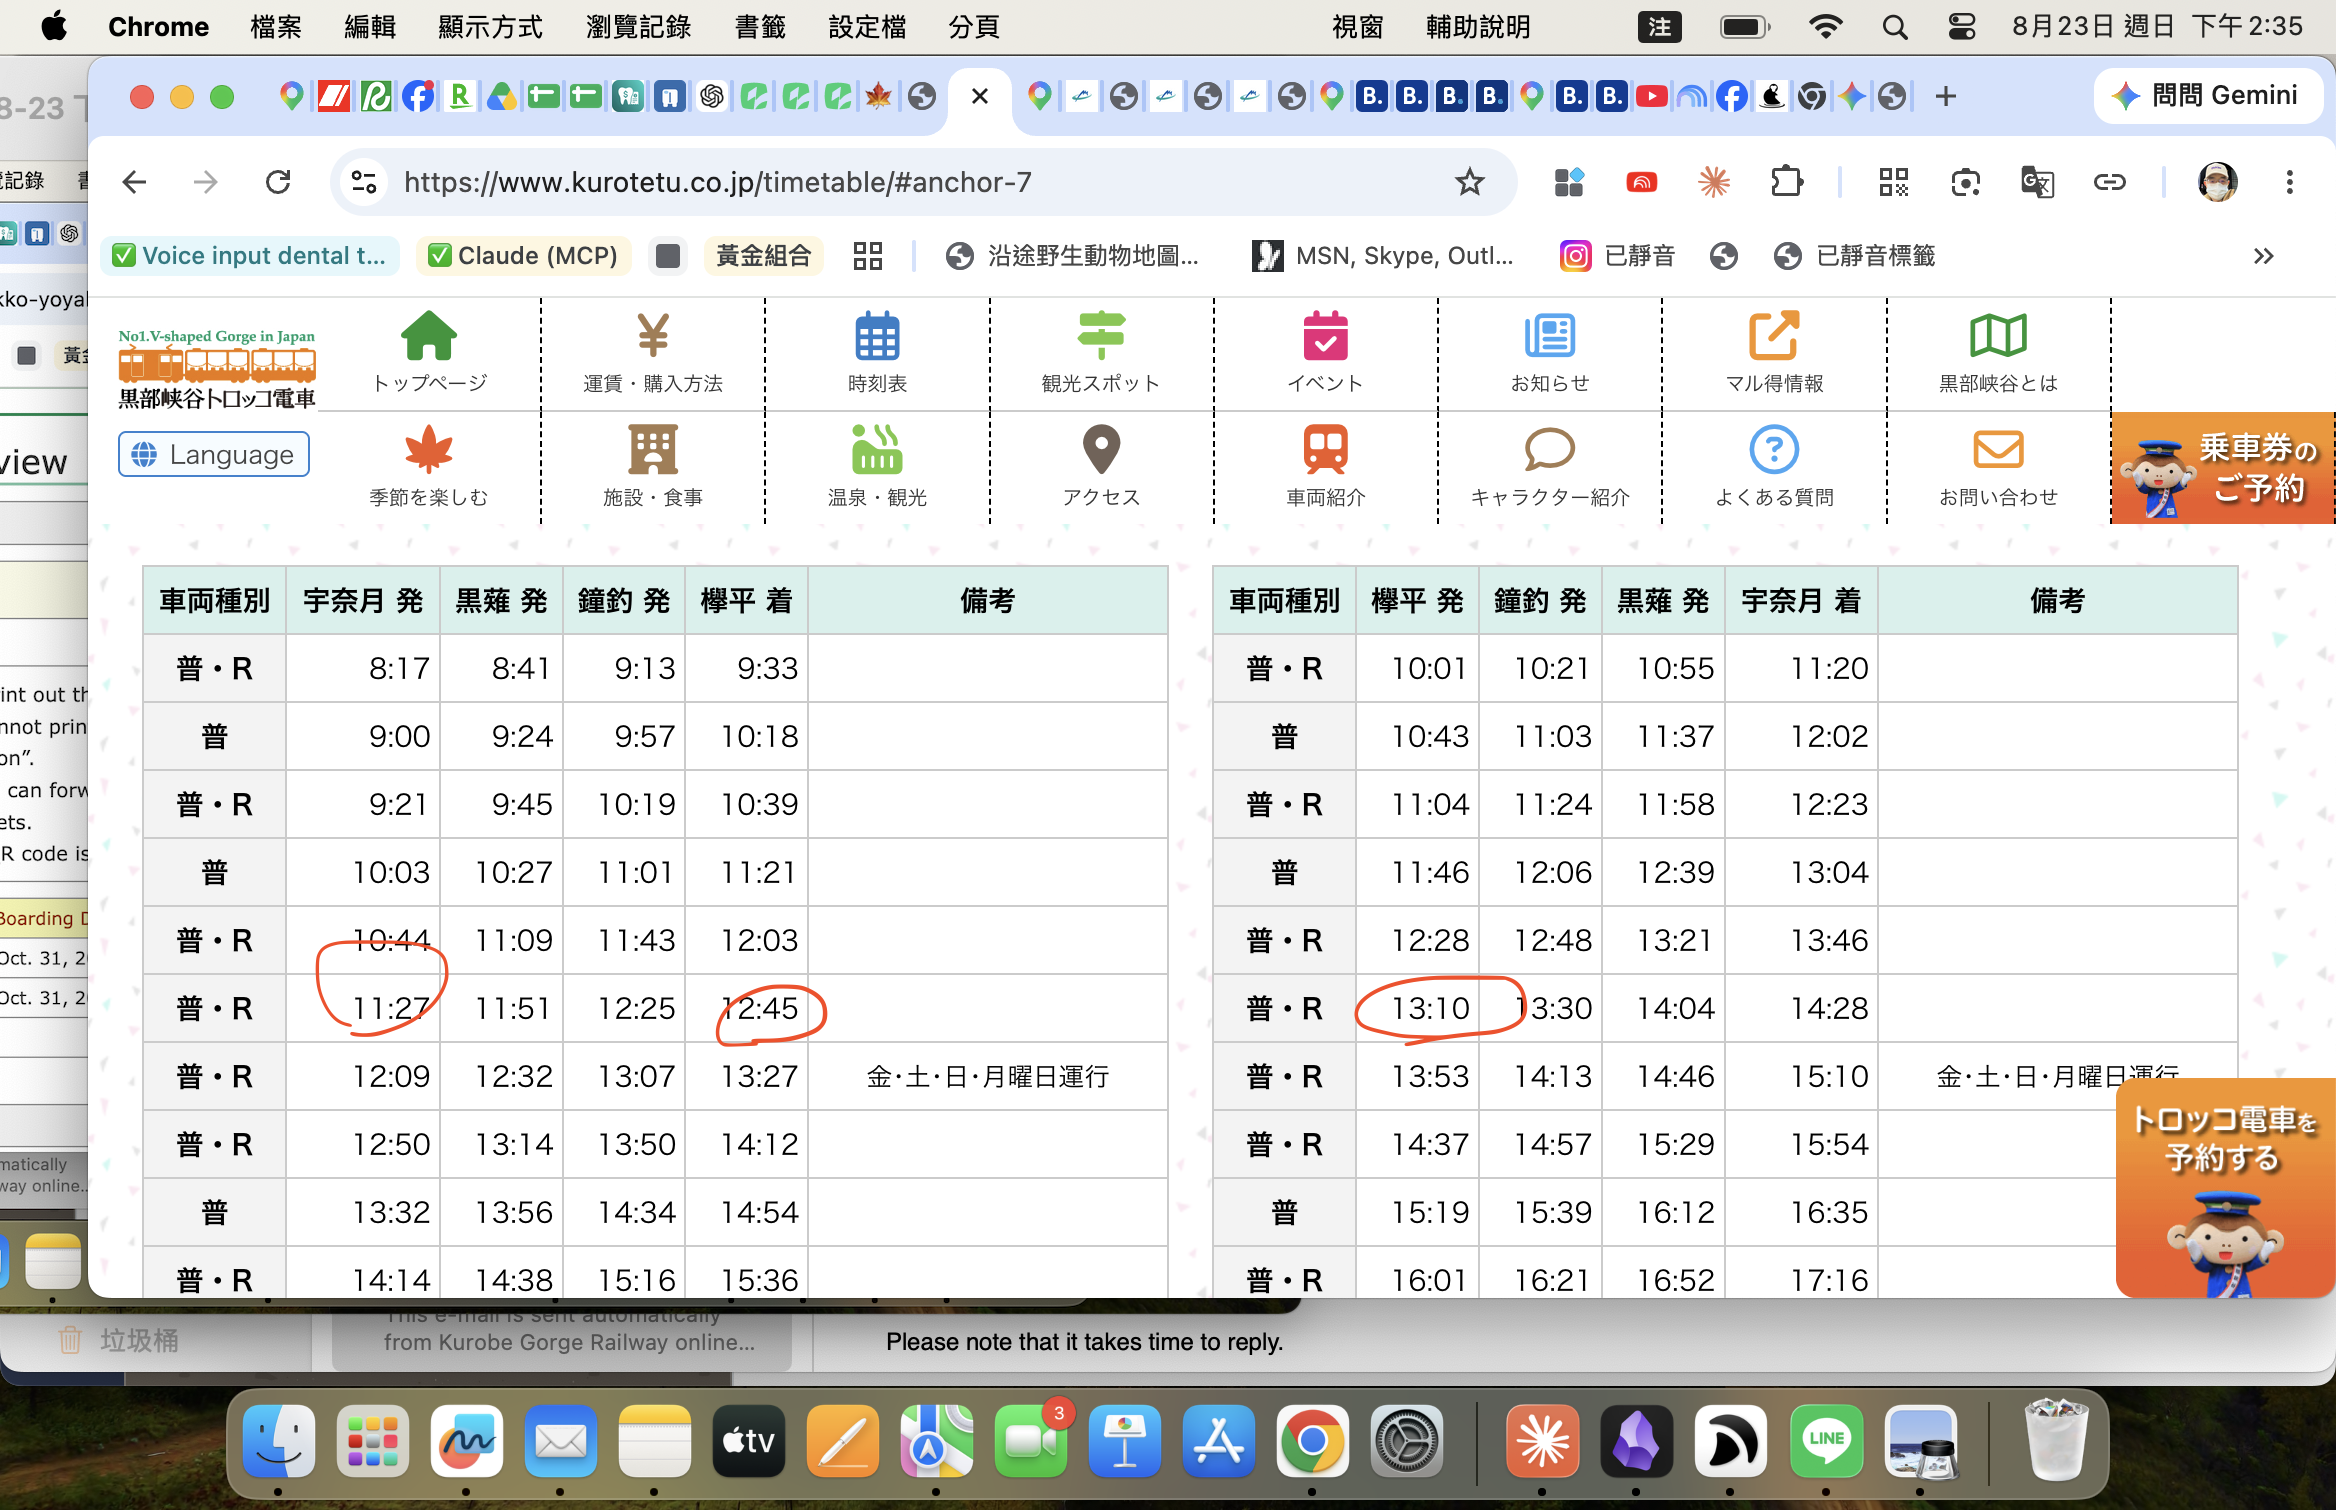
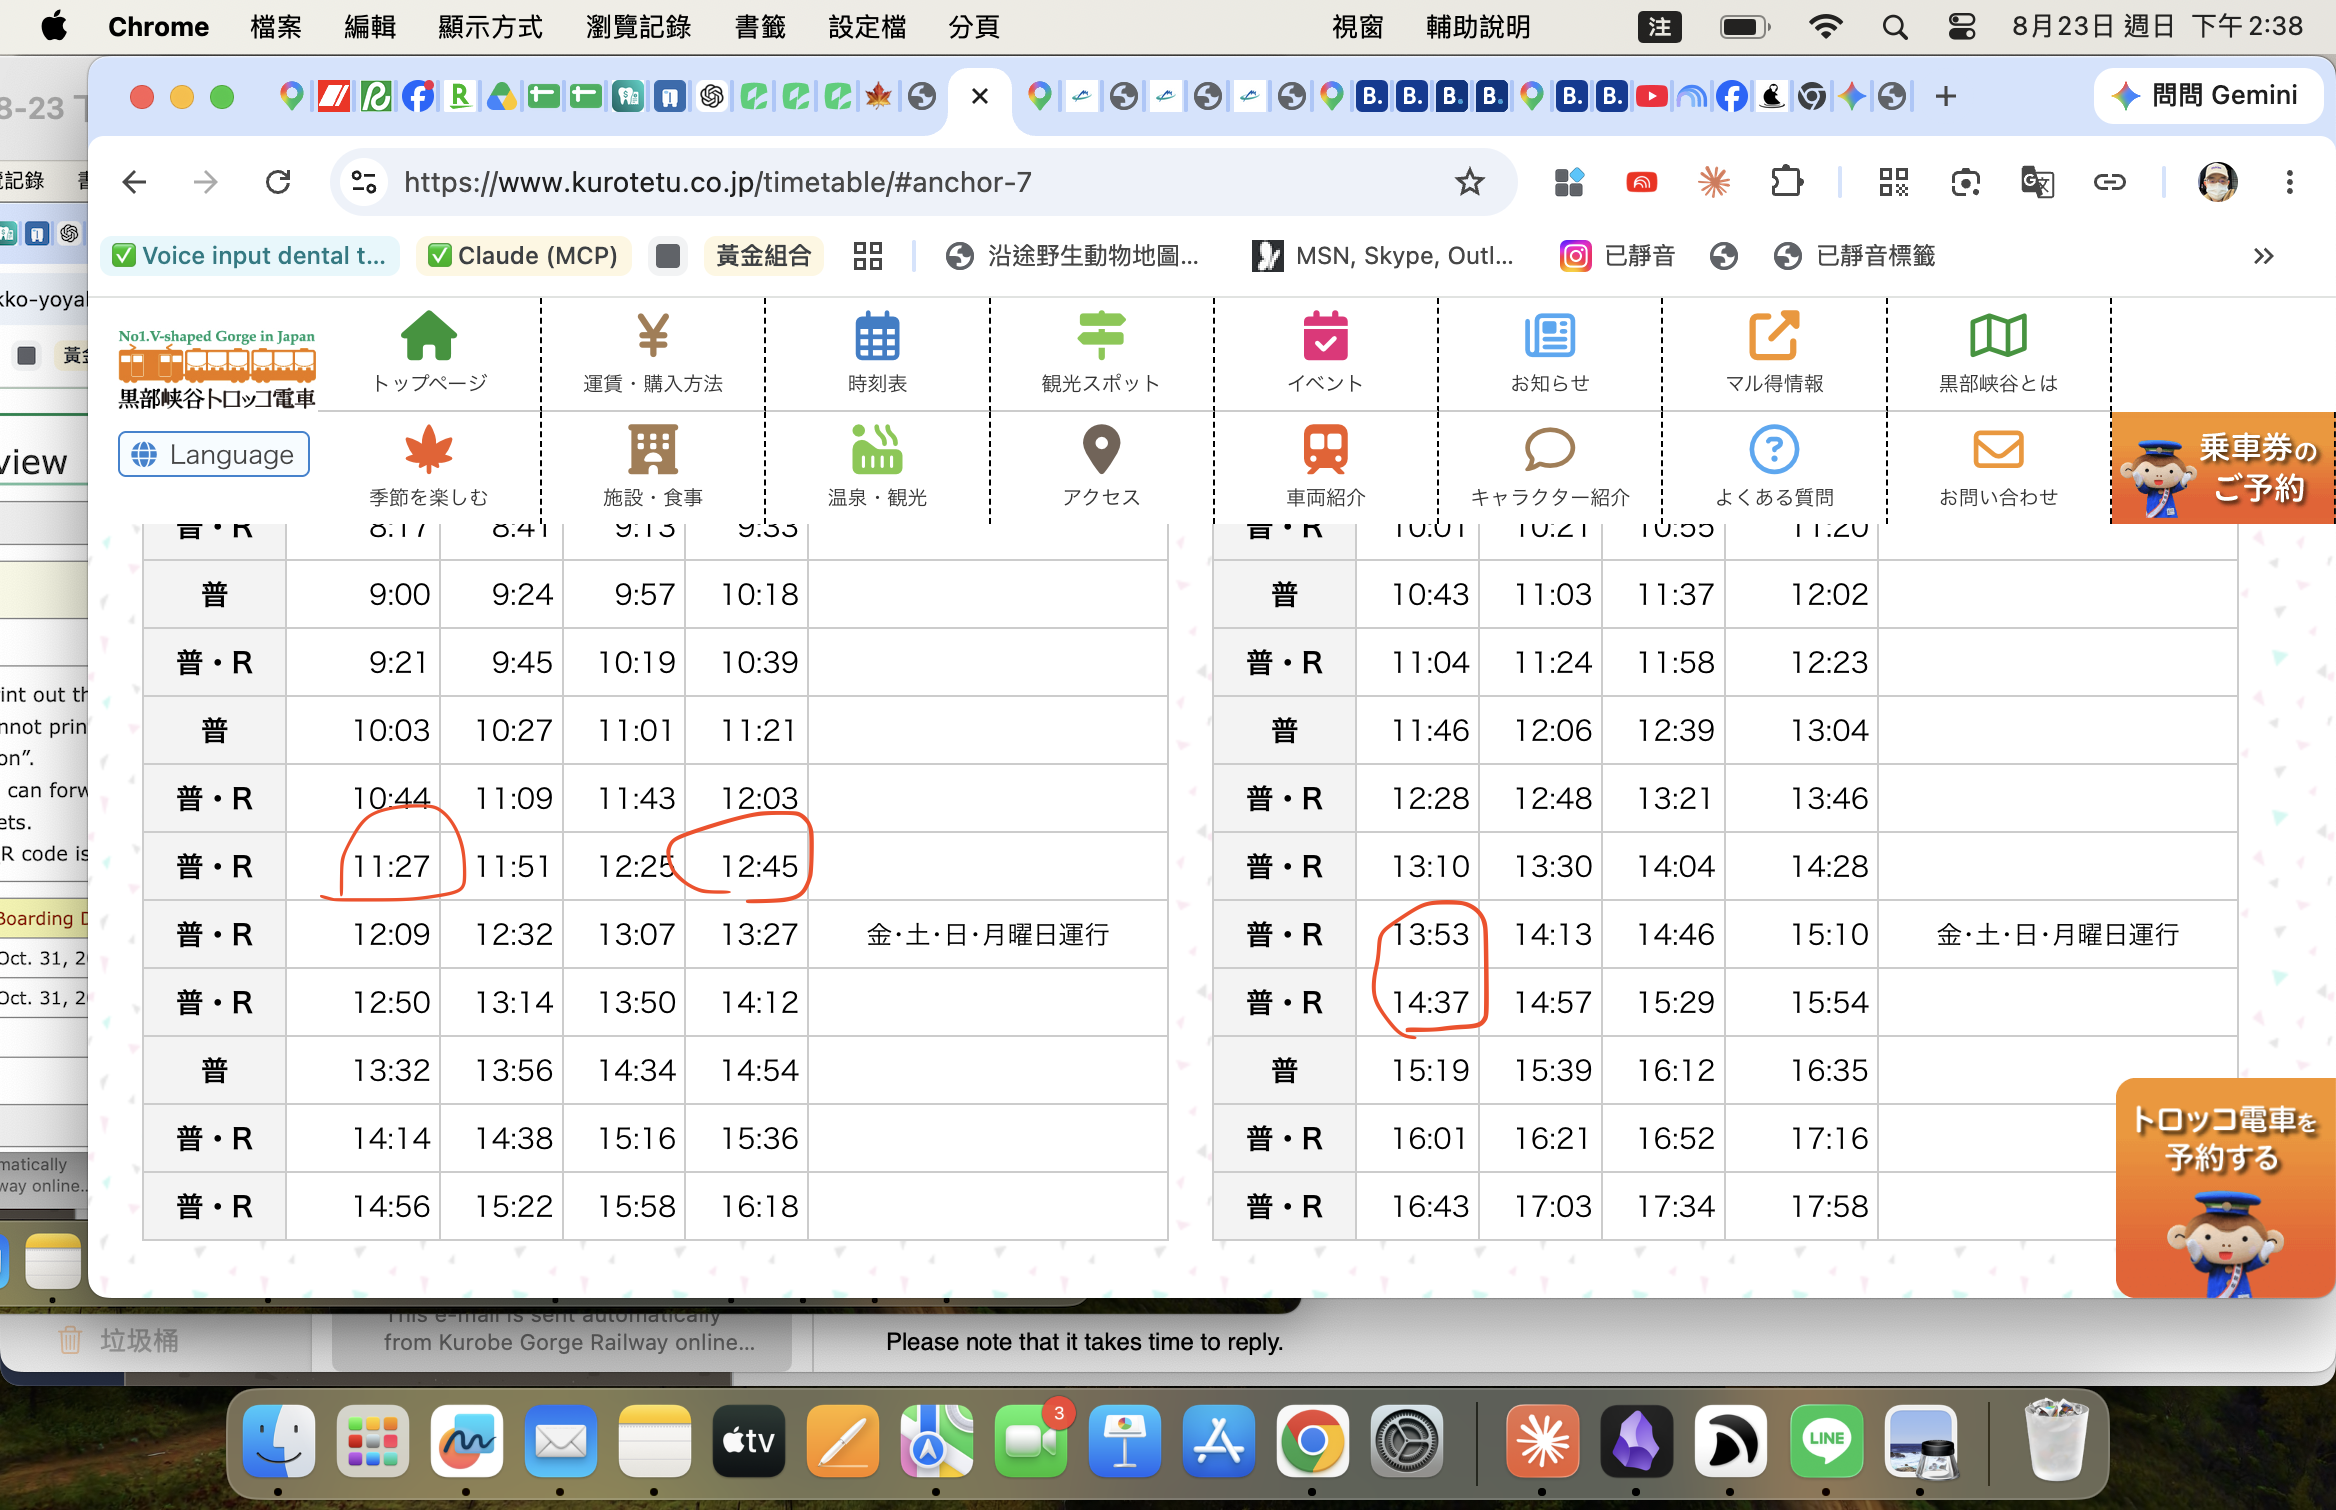
fix: Day3黑部峽谷鐵道回程改為13:53或14:37彈性兩班可選，更新截圖與說明

diff --git a/index.html b/index.html
@@ -506,7 +506,7 @@ const days = [
     n: 3, zh: "領車・黑部峽谷鐵道賞楓（宇奈月→欅平）→ 移動長野", en: "Pick up car → Kurobe Gorge Railway (Unazuki-Keyakidaira) → move to Nagano side", country: "富山", flag: "🇯🇵",
     date: "10/31（六）",
     spots: [
-      { n: "★黑部峽谷鐵道（宇奈月→欅平，來回車票已確認：11:27→12:45、13:10→14:28）", type: "star", links: [{ t: "官網", u: "https://www.kurotetu.co.jp/", o: true }, { t: "時刻表", u: "https://www.kurotetu.co.jp/timetable/", o: true }, { t: "📍 地圖", u: gmaps("黒部峡谷鉄道 宇奈月駅") }] },
+      { n: "★黑部峽谷鐵道（宇奈月→欅平，去程11:27→12:45，回程13:53或14:37兩班可選）", type: "star", links: [{ t: "官網", u: "https://www.kurotetu.co.jp/", o: true }, { t: "時刻表", u: "https://www.kurotetu.co.jp/timetable/", o: true }, { t: "📍 地圖", u: gmaps("黒部峡谷鉄道 宇奈月駅") }] },
       { n: "◎欅平（奧鐘橋・猿飛峡・人喰岩）", type: "dot", links: [{ t: "📍 地圖", u: gmaps("欅平駅") }] },
     ],
     mapSpots: [
@@ -516,11 +516,11 @@ const days = [
     ],
     food: "宇奈月溫泉街有不少老字號溫泉饅頭店，小火車上也可以買熱茶暖手；欅平車站本身也有簡餐和賣店",
     hotel: "長野市區（連住兩晚）",
-    note: "早上退房後在富山駅前的租車門市取車（Day2搭電車不用租車，車子少租一天），開車到宇奈月（約1-1.5小時）。<b>來回車票已確認：去程11:27宇奈月出發→12:45到欅平，回程13:10欅平出發→14:28回宇奈月</b>，車票種類是無窗的普通客車，這個氣溫吹一路風會冷，務必做好保暖（厚外套、圍巾、手套）。<b>欅平只有25分鐘可以逛（12:45到、13:10就要上車）</b>，時間非常緊，奧鐘橋就在車站旁走過去看一下勉強夠，猿飛峡（單程20-30分鐘）大概來不及走完，優先看奧鐘橋就好。14:28回到宇奈月後，開車經白馬南下<b>長野市區</b>（約2.5-3小時），因為回程比預期早了2小時多，時間比原本擔心的寬裕很多，不用趕",
+    note: "早上退房後在富山駅前的租車門市取車（Day2搭電車不用租車，車子少租一天），開車到宇奈月（約1-1.5小時）。<b>去程已確認：11:27宇奈月出發→12:45到欅平</b>，車票種類是無窗的普通客車，這個氣溫吹一路風會冷，務必做好保暖（厚外套、圍巾、手套）。<b>回程可搭13:53或14:37兩班（都可以），欅平停留時間分別約68分鐘或112分鐘</b>，比原本抓的25分鐘寬裕很多，奧鐘橋、猿飛峡（單程20-30分鐘）都有機會走到，視現場狀況彈性決定搭哪班。搭13:53回程約15:10到宇奈月、搭14:37約15:54到，回宇奈月後開車經白馬南下<b>長野市區</b>（約2.5-3小時），時間都還算充裕，不用趕",
     carEvent: { type: "pickup", label: "🚗 富山駅前取車", location: "富山駅前租車門市", note: "Day2搭電車去立山黑部不用租車，車子這天才開始租，取車後全程自駕到 Day 7 還車，中間上高地那天車子一樣要停在管制區外" },
     reservationImgs: [
       { src: "./assets/kurobe-gorge-reservation.png", caption: "黑部峽谷鐵道訂票確認截圖（僅供行程參考，此截圖未包含姓名地址等個人資料）" },
-      { src: "./assets/kurobe-gorge-timetable.png", caption: "官方時刻表（已圈選：去程11:27→12:45、回程13:10→14:28），完整時刻表見 kurotetu.co.jp/timetable" },
+      { src: "./assets/kurobe-gorge-timetable.png", caption: "官方時刻表（已圈選：去程11:27→12:45，回程13:53或14:37兩班可選），完整時刻表見 kurotetu.co.jp/timetable" },
     ]
   },
   {
